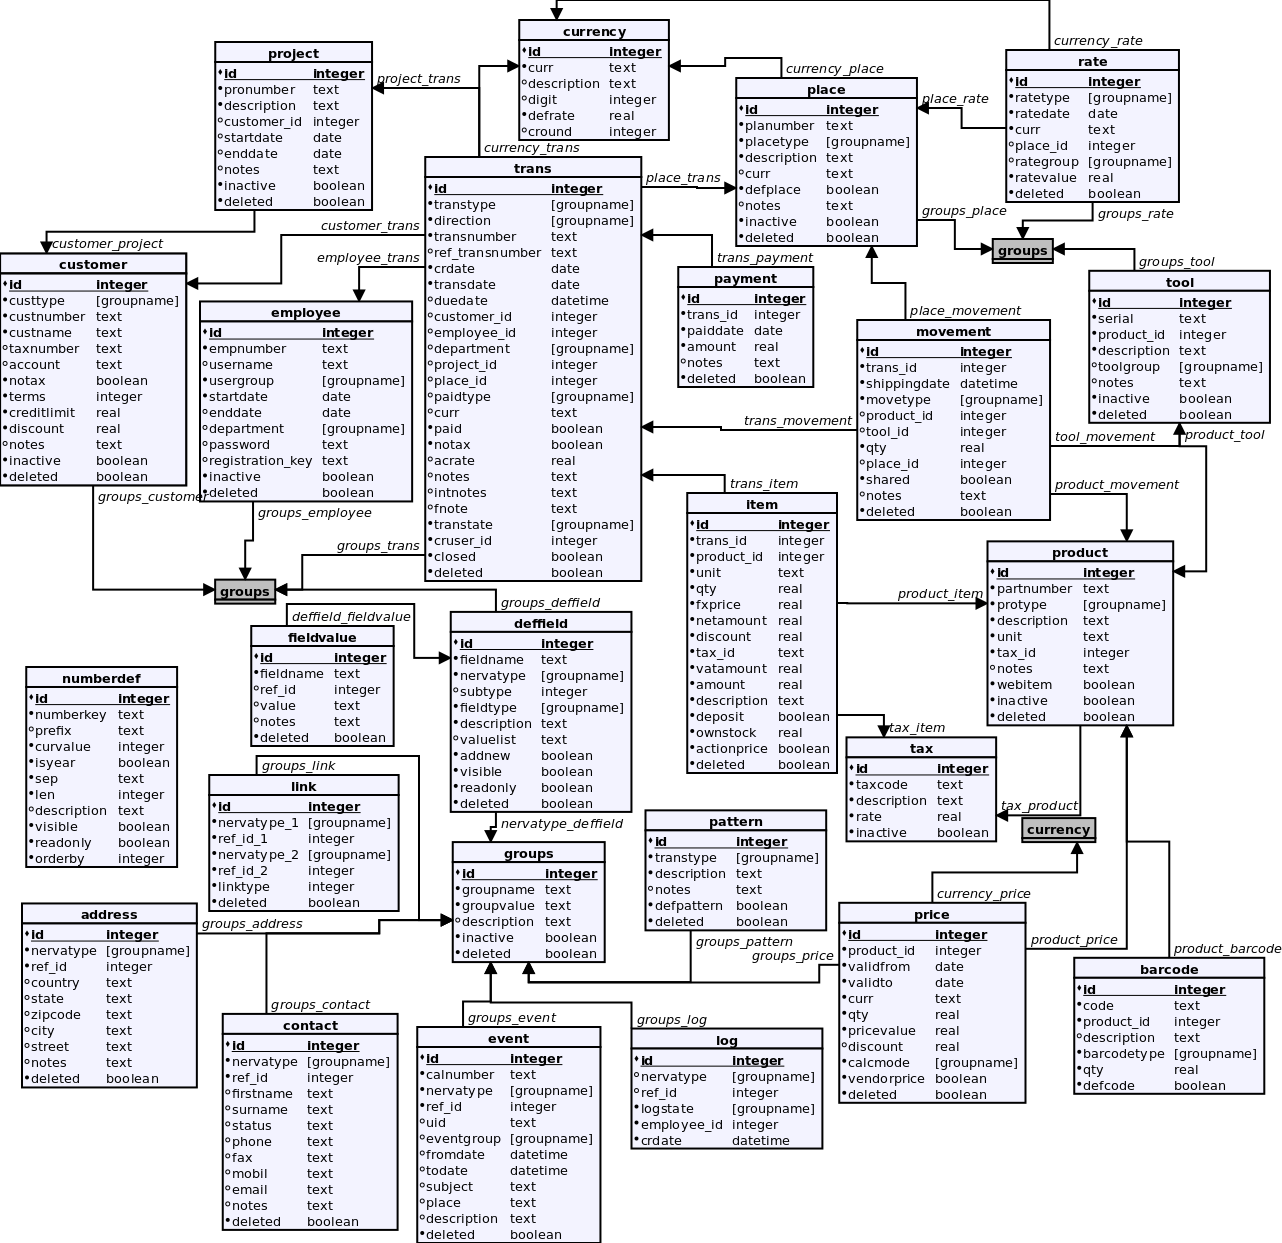
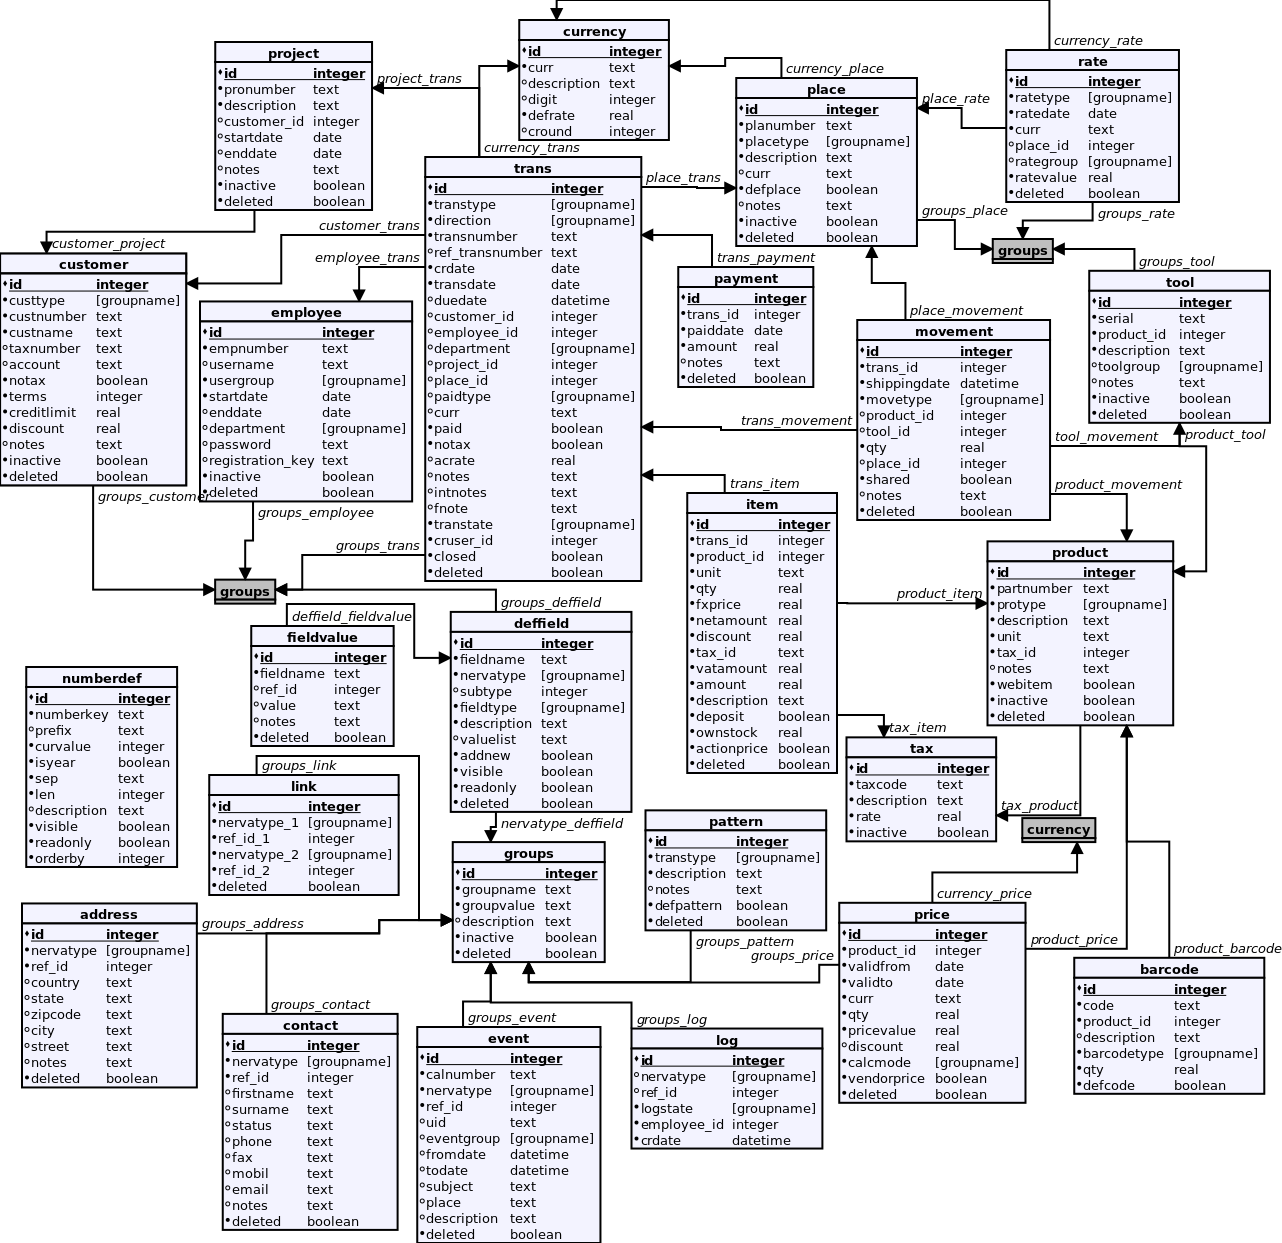
v2.1.5

diff --git a/lib/node/ndi.js b/lib/node/ndi.js
@@ -1076,8 +1076,11 @@ function get_data(nstore, params, filter, _callback){
     
     function(data, callback) {
       if (params.check_audit){
-        var access = ntura.model[params.datatype]._access;
-        if (access.length === 1) {access = access[0];}
+        var access = "setting"; 
+        if(ntura.model[params.datatype]){
+          ntura.model[params.datatype]._access;
+          if (access.length === 1) {
+            access = access[0];}}
         if (access === "transtype"){
           //data access rights
           nstore.connect.getDataAudit({conn:params.validator.conn}, function(err, state){
@@ -1542,10 +1545,10 @@ function get_data(nstore, params, filter, _callback){
         case "link":
           data.item_str = "link"; data.fld_value = "link";
           fields_ = {"nervatype1":"g1.groupvalue", "represent_refnumber1":"link.ref_id_1", 
-            "nervatype2":"g2.groupvalue", "represent_refnumber2":"link.ref_id_2", "linktype":"link.linktype"};
+            "nervatype2":"g2.groupvalue", "represent_refnumber2":"link.ref_id_2"};
           data._sql = {
             select:["g1.groupvalue as nervatype1","link.ref_id_1 as represent_refnumber1",
-              "g2.groupvalue as nervatype2","link.ref_id_2 as represent_refnumber2","link.linktype"],
+              "g2.groupvalue as nervatype2","link.ref_id_2 as represent_refnumber2"],
             from:"link", 
             inner_join:[["groups g1","on",["link.nervatype_1","=","g1.id"]],
               ["groups g2","on",["link.nervatype_2","=","g2.id"]]],

diff --git a/views/docs/ndi.html b/views/docs/ndi.html
@@ -717,9 +717,9 @@
 				<td>barcodetype*</td>
 				<td>text</td>
 				<td>Required in case of new value entry. Valid values: all groupvalue from
-					GROUPS, where groupname equal barcodetype. (Default values:
-					AZTEC,CODABAR,CODE_128,CODE_39,CODE_93,DATA_MATRIX,EAN_13,EAN_8,ITF,MSI,
-					PDF417,QR_CODE,RSS_EXPANDED,RSS14,UPC_A,UPC_E)</td>
+					GROUPS, where groupname equal barcodetype. (Default values: AZTEC, CODABAR, CODE_128, 
+					CODE_39, CODE_93, DATA_MATRIX, EAN_13, EAN_8, ITF, MSI, PDF417, QR_CODE, RSS_EXPANDED,
+					RSS14, UPC_A, UPC_E)</td>
 			</tr>
 			<tr>
 				<td>description</td>
@@ -1508,11 +1508,6 @@
 				<td><b>refnumber2*</b></td>
 				<td>text</td>
 				<td style="text-align: left;">Required.</td>
-			</tr>
-			<tr>
-				<td>linktype</td>
-				<td>integer</td>
-				<td>Default value: 0.</td>
 			</tr>
 			<tr>
         <td><i>additional data</i></td>

diff --git a/lib/node/models.js b/lib/node/models.js
@@ -152,7 +152,6 @@ module.exports = {
       ref_id_1: {type:'integer', notnull:true, refname:'refnumber1'},
       nervatype_2: {references:['groups','RESTRICT','NO ACTION'], notnull:true, requires:{nervatype:[]}, refname:'nervatype2'},
       ref_id_2: {type:'integer', notnull:true, refname:'refnumber2'},
-      linktype: {type:'integer', default:0, notnull:true},
       deleted: {type:'integer', default:0, notnull:true, requires:{bool:true}}
     },
   

diff --git a/views/docs/nom.html b/views/docs/nom.html
@@ -369,7 +369,7 @@
       <h3><a name="appendix">Objects relations</a></h3>
       <p><i>1. picture: Document type (transtype) relations.</i></p>
       <p>
-        <img src="/images/trans.png" width="600" height="460">
+        <img src="/images/trans.png" width="600" height="494">
       </p>
       <p><i>2. picture: A possible relational database plan of NOM objects.</i></p>
       <p>
